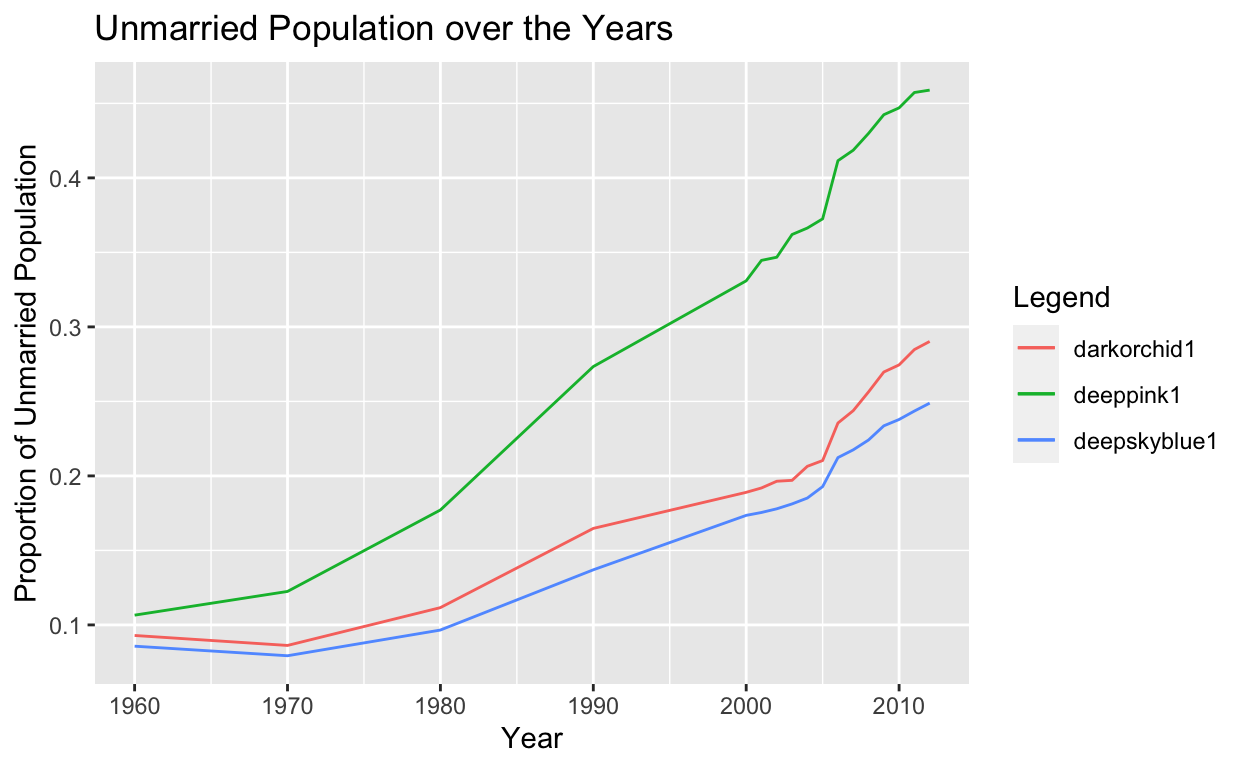
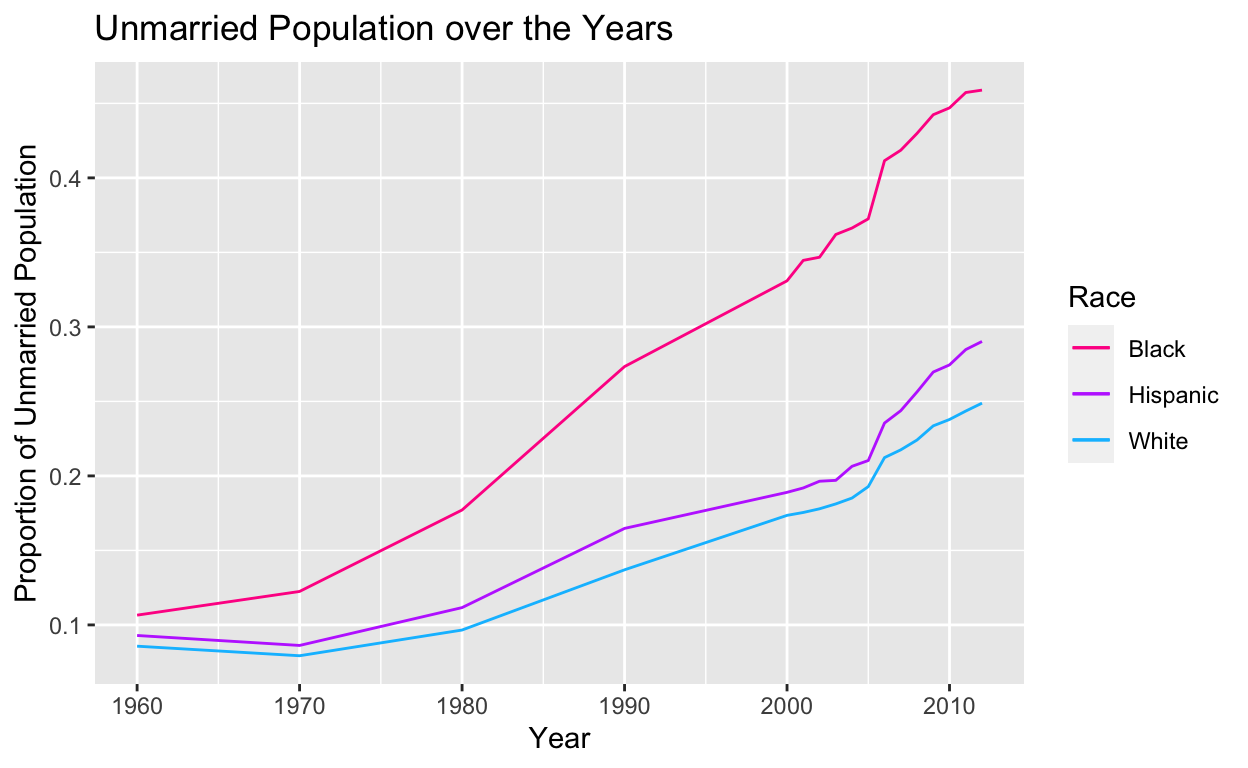
Milestone Four

diff --git a/index.html b/index.html
@@ -1597,22 +1597,177 @@ code span.wa { color: #5e5e5e; font-style: italic; } /* Warning */
 </div>
 <div class="layout-chunk" data-layout="l-body">
 <div class="sourceCode">
-<pre class="sourceCode r"><code class="sourceCode r"><span><span class='va'>race_graph</span> <span class='op'>&lt;-</span> <span class='va'>race_compiled</span><span class='op'>|&gt;</span></span>
+<pre class="sourceCode r"><code class="sourceCode r"><span><span class='kw'><a href='https://rdrr.io/r/base/library.html'>library</a></span><span class='op'>(</span><span class='va'><a href='https://ggplot2.tidyverse.org'>ggplot2</a></span><span class='op'>)</span></span>
+<span><span class='va'>race_graph</span> <span class='op'>&lt;-</span> <span class='va'>race_compiled</span><span class='op'>|&gt;</span></span>
 <span>  <span class='fu'><a href='https://ggplot2.tidyverse.org/reference/ggplot.html'>ggplot</a></span><span class='op'>(</span><span class='fu'><a href='https://ggplot2.tidyverse.org/reference/aes.html'>aes</a></span><span class='op'>(</span>x <span class='op'>=</span> <span class='va'>year</span><span class='op'>)</span><span class='op'>)</span><span class='op'>+</span></span>
-<span>  <span class='fu'><a href='https://ggplot2.tidyverse.org/reference/geom_path.html'>geom_line</a></span><span class='op'>(</span><span class='fu'><a href='https://ggplot2.tidyverse.org/reference/aes.html'>aes</a></span><span class='op'>(</span>y<span class='op'>=</span> <span class='va'>Black</span>, colour <span class='op'>=</span> <span class='st'>"deeppink1"</span><span class='op'>)</span><span class='op'>)</span><span class='op'>+</span></span>
-<span>  <span class='fu'><a href='https://ggplot2.tidyverse.org/reference/geom_path.html'>geom_line</a></span><span class='op'>(</span><span class='fu'><a href='https://ggplot2.tidyverse.org/reference/aes.html'>aes</a></span><span class='op'>(</span>y<span class='op'>=</span> <span class='va'>White</span>, colour <span class='op'>=</span> <span class='st'>"deepskyblue1"</span><span class='op'>)</span><span class='op'>)</span><span class='op'>+</span></span>
-<span>  <span class='fu'><a href='https://ggplot2.tidyverse.org/reference/geom_path.html'>geom_line</a></span><span class='op'>(</span><span class='fu'><a href='https://ggplot2.tidyverse.org/reference/aes.html'>aes</a></span><span class='op'>(</span>y<span class='op'>=</span> <span class='va'>Hispanic</span>, colour <span class='op'>=</span> <span class='st'>"darkorchid1"</span><span class='op'>)</span><span class='op'>)</span><span class='op'>+</span></span>
+<span>  <span class='fu'><a href='https://ggplot2.tidyverse.org/reference/geom_path.html'>geom_line</a></span><span class='op'>(</span><span class='fu'><a href='https://ggplot2.tidyverse.org/reference/aes.html'>aes</a></span><span class='op'>(</span>y<span class='op'>=</span> <span class='va'>Black</span>, colour <span class='op'>=</span> <span class='st'>"Black"</span><span class='op'>)</span><span class='op'>)</span><span class='op'>+</span></span>
+<span>  <span class='fu'><a href='https://ggplot2.tidyverse.org/reference/geom_path.html'>geom_line</a></span><span class='op'>(</span><span class='fu'><a href='https://ggplot2.tidyverse.org/reference/aes.html'>aes</a></span><span class='op'>(</span>y<span class='op'>=</span> <span class='va'>White</span>, colour <span class='op'>=</span> <span class='st'>"White"</span><span class='op'>)</span><span class='op'>)</span><span class='op'>+</span></span>
+<span>  <span class='fu'><a href='https://ggplot2.tidyverse.org/reference/geom_path.html'>geom_line</a></span><span class='op'>(</span><span class='fu'><a href='https://ggplot2.tidyverse.org/reference/aes.html'>aes</a></span><span class='op'>(</span>y<span class='op'>=</span> <span class='va'>Hispanic</span>, colour <span class='op'>=</span> <span class='st'>"Hispanic"</span><span class='op'>)</span><span class='op'>)</span><span class='op'>+</span></span>
 <span>  <span class='fu'><a href='https://ggplot2.tidyverse.org/reference/labs.html'>labs</a></span><span class='op'>(</span>title <span class='op'>=</span> <span class='st'>"Unmarried Population over the Years"</span>,</span>
 <span>       x <span class='op'>=</span> <span class='st'>"Year"</span>,</span>
 <span>       y <span class='op'>=</span> <span class='st'>"Proportion of Unmarried Population"</span>,</span>
-<span>       colour <span class='op'>=</span> <span class='st'>"Legend"</span><span class='op'>)</span></span>
+<span>       colour <span class='op'>=</span> <span class='st'>"Legend"</span><span class='op'>)</span> <span class='op'>+</span></span>
+<span>  <span class='fu'><a href='https://ggplot2.tidyverse.org/reference/scale_manual.html'>scale_color_manual</a></span><span class='op'>(</span>name <span class='op'>=</span> <span class='st'>"Race"</span>, values<span class='op'>=</span> <span class='fu'><a href='https://rdrr.io/r/base/c.html'>c</a></span><span class='op'>(</span><span class='st'>"Black"</span><span class='op'>=</span> <span class='st'>"deeppink1"</span>, <span class='st'>"White"</span><span class='op'>=</span> <span class='st'>"deepskyblue1"</span>, <span class='st'>"Hispanic"</span><span class='op'>=</span> <span class='st'>"darkorchid1"</span><span class='op'>)</span><span class='op'>)</span></span>
 <span></span>
 <span><span class='va'>race_graph</span></span></code></pre>
 </div>
 <p><img src="index_files/figure-html5/unnamed-chunk-3-1.png" width="624" /></p>
 </div>
-<p>The above graph is the current version of my data visualisation. The three lines correspond with each of th races involved in the study (Black, White, and Hispanic). Though the current legend doesn’t include accurate labels, the green line corresponds with the Black population, the red line corresponds with the Hispanic population, and the blue line corresponds with the White population. In future versions of the visualisation, I hope to figure out what’s causing the lines to be mislabeled in the legend. However, the data shows an interesting trend that seems to prove the hypothesis that that Black populations have far higher proportions of unmarried people within the populations. It also highlights an upward trend in the unmarried proportion across all populations.</p>
-<div class="sourceCode" id="cb3"><pre class="sourceCode r distill-force-highlighting-css"><code class="sourceCode r"></code></pre></div>
+<p>The above graph is the current version of my data visualisation. The three lines correspond with each of the races involved in the study (Black, White, and Hispanic). Though the current legend doesn’t include accurate labels, the green line corresponds with the Black population, the red line corresponds with the Hispanic population, and the blue line corresponds with the White population. In future versions of the visualisation, I hope to figure out what’s causing the lines to be mislabeled in the legend. However, the data shows an interesting trend that seems to prove the hypothesis that that Black populations have far higher proportions of unmarried people within the populations. It also highlights an upward trend in the unmarried proportion across all populations.</p>
+<p>###Milestone Four</p>
+<div class="layout-chunk" data-layout="l-body">
+<div class="sourceCode">
+<pre class="sourceCode r"><code class="sourceCode r"><span><span class='va'>race_compiled</span> <span class='op'>&lt;-</span> <span class='va'>both_sexes</span> <span class='op'>|&gt;</span></span>
+<span>  <span class='fu'><a href='https://dplyr.tidyverse.org/reference/select.html'>select</a></span><span class='op'>(</span><span class='va'>year</span>, <span class='va'>Black_2534</span>, <span class='va'>Black_3544</span>, <span class='va'>Black_4554</span>, <span class='va'>Hisp_2534</span>, <span class='va'>Hisp_3544</span>, <span class='va'>Hisp_4554</span>, <span class='va'>White_2534</span>, <span class='va'>White_3544</span>, <span class='va'>White_4554</span><span class='op'>)</span><span class='op'>|&gt;</span></span>
+<span>  <span class='fu'><a href='https://dplyr.tidyverse.org/reference/group_by.html'>group_by</a></span><span class='op'>(</span><span class='va'>year</span><span class='op'>)</span><span class='op'>|&gt;</span></span>
+<span>  <span class='fu'><a href='https://dplyr.tidyverse.org/reference/mutate.html'>mutate</a></span><span class='op'>(</span>Black <span class='op'>=</span> <span class='op'>(</span><span class='va'>Black_2534</span><span class='op'>+</span> <span class='va'>Black_3544</span><span class='op'>+</span> <span class='va'>Black_4554</span><span class='op'>)</span><span class='op'>/</span><span class='fl'>3</span>,</span>
+<span>         Hispanic <span class='op'>=</span> <span class='op'>(</span><span class='va'>Hisp_2534</span><span class='op'>+</span> <span class='va'>Hisp_3544</span><span class='op'>+</span> <span class='va'>Hisp_4554</span><span class='op'>)</span><span class='op'>/</span><span class='fl'>3</span>,</span>
+<span>         White <span class='op'>=</span> <span class='op'>(</span><span class='va'>White_2534</span><span class='op'>+</span> <span class='va'>White_3544</span><span class='op'>+</span> <span class='va'>White_4554</span><span class='op'>)</span><span class='op'>/</span><span class='fl'>3</span>,<span class='op'>)</span><span class='op'>|&gt;</span></span>
+<span>  <span class='fu'><a href='https://dplyr.tidyverse.org/reference/select.html'>select</a></span><span class='op'>(</span><span class='va'>year</span>, <span class='va'>Black</span>, <span class='va'>White</span>, <span class='va'>Hispanic</span><span class='op'>)</span> </span>
+<span></span>
+<span><span class='va'>race_compiled</span></span></code></pre>
+</div>
+<pre><code># A tibble: 17 × 4
+# Groups:   year [17]
+    year Black  White Hispanic
+   &lt;dbl&gt; &lt;dbl&gt;  &lt;dbl&gt;    &lt;dbl&gt;
+ 1  1960 0.107 0.0857   0.0929
+ 2  1970 0.122 0.0793   0.0862
+ 3  1980 0.177 0.0966   0.112 
+ 4  1990 0.273 0.137    0.165 
+ 5  2000 0.331 0.174    0.189 
+ 6  2001 0.345 0.175    0.192 
+ 7  2002 0.347 0.178    0.196 
+ 8  2003 0.362 0.181    0.197 
+ 9  2004 0.366 0.185    0.206 
+10  2005 0.373 0.193    0.210 
+11  2006 0.412 0.212    0.235 
+12  2007 0.419 0.217    0.244 
+13  2008 0.430 0.224    0.256 
+14  2009 0.442 0.234    0.270 
+15  2010 0.447 0.238    0.275 
+16  2011 0.457 0.244    0.285 
+17  2012 0.459 0.249    0.290 </code></pre>
+<div class="sourceCode">
+<pre class="sourceCode r"><code class="sourceCode r"><span><span class='fu'>knitr</span><span class='fu'>::</span><span class='fu'><a href='https://rdrr.io/pkg/knitr/man/kable.html'>kable</a></span><span class='op'>(</span><span class='va'>race_compiled</span>, digits <span class='op'>=</span> <span class='fl'>2</span>, col.names <span class='op'>=</span> <span class='fu'><a href='https://rdrr.io/r/base/c.html'>c</a></span><span class='op'>(</span><span class='st'>"Year"</span>, <span class='st'>"Black Population"</span>, <span class='st'>"White Population"</span>, <span class='st'>"Hispanic Population"</span><span class='op'>)</span><span class='op'>)</span></span></code></pre>
+</div>
+<table>
+<thead>
+<tr class="header">
+<th style="text-align: right;">Year</th>
+<th style="text-align: right;">Black Population</th>
+<th style="text-align: right;">White Population</th>
+<th style="text-align: right;">Hispanic Population</th>
+</tr>
+</thead>
+<tbody>
+<tr class="odd">
+<td style="text-align: right;">1960</td>
+<td style="text-align: right;">0.11</td>
+<td style="text-align: right;">0.09</td>
+<td style="text-align: right;">0.09</td>
+</tr>
+<tr class="even">
+<td style="text-align: right;">1970</td>
+<td style="text-align: right;">0.12</td>
+<td style="text-align: right;">0.08</td>
+<td style="text-align: right;">0.09</td>
+</tr>
+<tr class="odd">
+<td style="text-align: right;">1980</td>
+<td style="text-align: right;">0.18</td>
+<td style="text-align: right;">0.10</td>
+<td style="text-align: right;">0.11</td>
+</tr>
+<tr class="even">
+<td style="text-align: right;">1990</td>
+<td style="text-align: right;">0.27</td>
+<td style="text-align: right;">0.14</td>
+<td style="text-align: right;">0.16</td>
+</tr>
+<tr class="odd">
+<td style="text-align: right;">2000</td>
+<td style="text-align: right;">0.33</td>
+<td style="text-align: right;">0.17</td>
+<td style="text-align: right;">0.19</td>
+</tr>
+<tr class="even">
+<td style="text-align: right;">2001</td>
+<td style="text-align: right;">0.34</td>
+<td style="text-align: right;">0.18</td>
+<td style="text-align: right;">0.19</td>
+</tr>
+<tr class="odd">
+<td style="text-align: right;">2002</td>
+<td style="text-align: right;">0.35</td>
+<td style="text-align: right;">0.18</td>
+<td style="text-align: right;">0.20</td>
+</tr>
+<tr class="even">
+<td style="text-align: right;">2003</td>
+<td style="text-align: right;">0.36</td>
+<td style="text-align: right;">0.18</td>
+<td style="text-align: right;">0.20</td>
+</tr>
+<tr class="odd">
+<td style="text-align: right;">2004</td>
+<td style="text-align: right;">0.37</td>
+<td style="text-align: right;">0.19</td>
+<td style="text-align: right;">0.21</td>
+</tr>
+<tr class="even">
+<td style="text-align: right;">2005</td>
+<td style="text-align: right;">0.37</td>
+<td style="text-align: right;">0.19</td>
+<td style="text-align: right;">0.21</td>
+</tr>
+<tr class="odd">
+<td style="text-align: right;">2006</td>
+<td style="text-align: right;">0.41</td>
+<td style="text-align: right;">0.21</td>
+<td style="text-align: right;">0.24</td>
+</tr>
+<tr class="even">
+<td style="text-align: right;">2007</td>
+<td style="text-align: right;">0.42</td>
+<td style="text-align: right;">0.22</td>
+<td style="text-align: right;">0.24</td>
+</tr>
+<tr class="odd">
+<td style="text-align: right;">2008</td>
+<td style="text-align: right;">0.43</td>
+<td style="text-align: right;">0.22</td>
+<td style="text-align: right;">0.26</td>
+</tr>
+<tr class="even">
+<td style="text-align: right;">2009</td>
+<td style="text-align: right;">0.44</td>
+<td style="text-align: right;">0.23</td>
+<td style="text-align: right;">0.27</td>
+</tr>
+<tr class="odd">
+<td style="text-align: right;">2010</td>
+<td style="text-align: right;">0.45</td>
+<td style="text-align: right;">0.24</td>
+<td style="text-align: right;">0.27</td>
+</tr>
+<tr class="even">
+<td style="text-align: right;">2011</td>
+<td style="text-align: right;">0.46</td>
+<td style="text-align: right;">0.24</td>
+<td style="text-align: right;">0.28</td>
+</tr>
+<tr class="odd">
+<td style="text-align: right;">2012</td>
+<td style="text-align: right;">0.46</td>
+<td style="text-align: right;">0.25</td>
+<td style="text-align: right;">0.29</td>
+</tr>
+</tbody>
+</table>
+</div>
+<p>This table is a neat visualisation of the numerical proportions of the unmarried populations over the years. Through this table, it is even easier to note how the Black populations have a drastically larger proportion of unmarried individuals over the years, and over generations, which alludes to the lasting effects of inequality across generations. Additionally, the visualisation from Milestone Three has been updated to include proper labels for the different lines</p>
+<div class="sourceCode" id="cb4"><pre class="sourceCode r distill-force-highlighting-css"><code class="sourceCode r"></code></pre></div>
 <!--radix_placeholder_article_footer-->
 <!--/radix_placeholder_article_footer-->
 </div>
